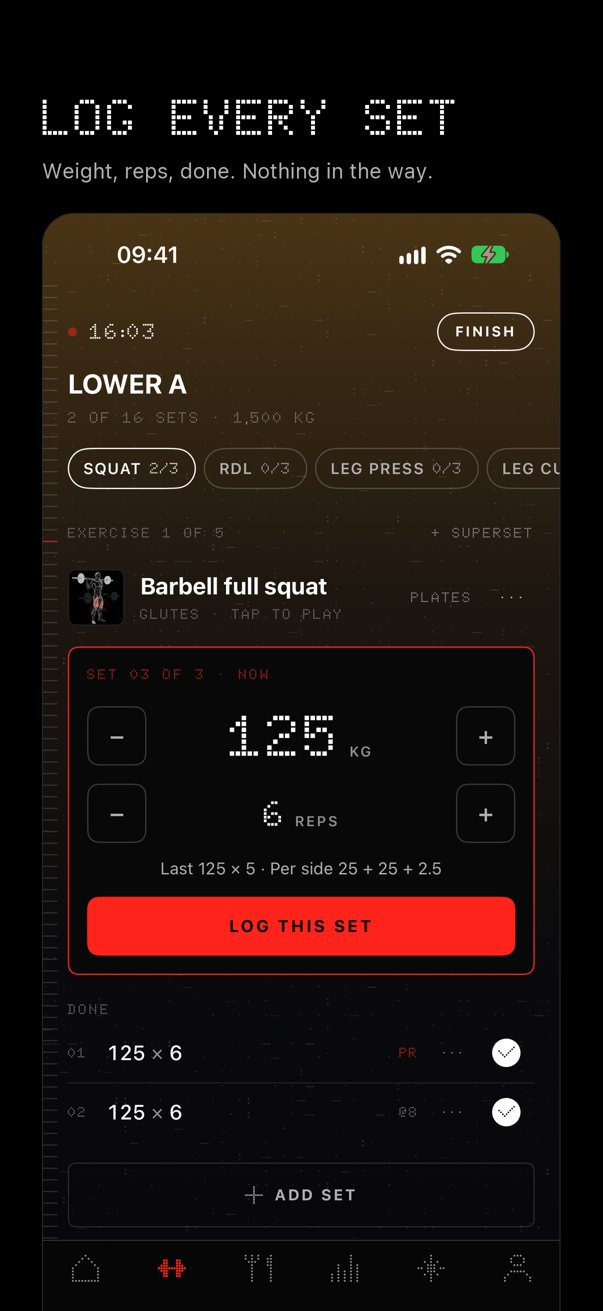
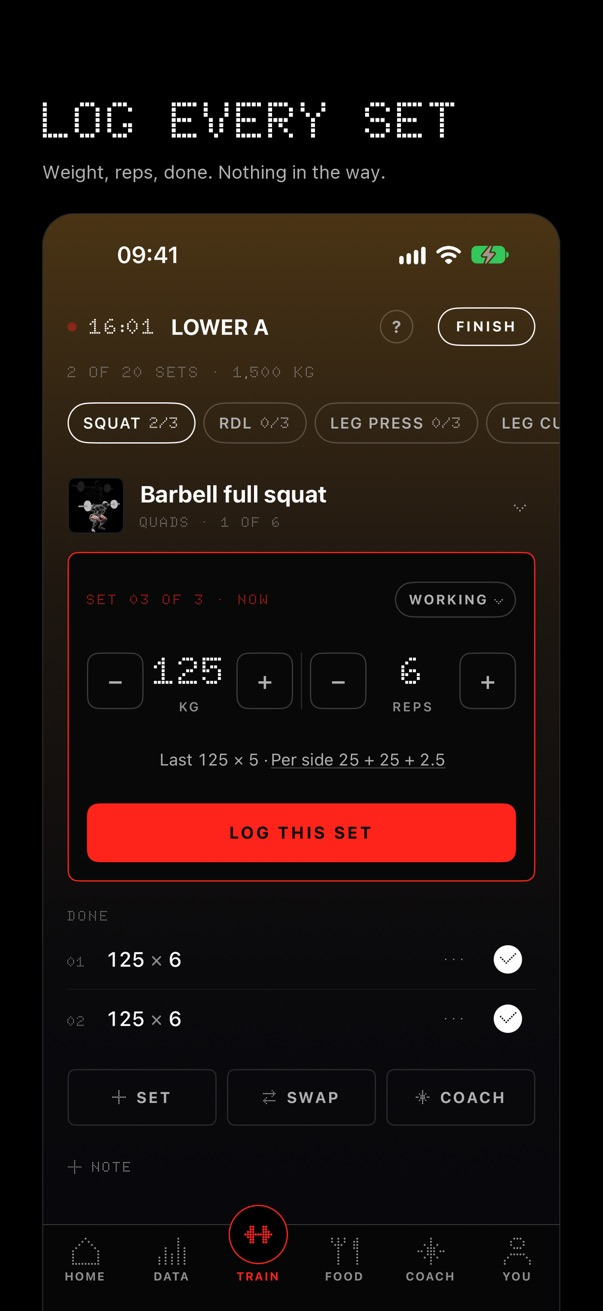
Site for GRAVR 2.0: new home page, a changelog, current support and privacy pages

diff --git a/docs/privacy/index.html b/docs/privacy/index.html
@@ -1,22 +1,35 @@
 <!doctype html><html lang="en"><head><title>GRAVR privacy policy</title><meta charset="utf-8"><meta name="viewport" content="width=device-width,initial-scale=1">
 <style>
-:root{color-scheme:dark}
+:root{color-scheme:dark;--red:#ff241b;--line:#2a2a2a;--dim:#8e8e8e}
 body{margin:0;background:#000;color:#f2f2f2;font:17px/1.6 -apple-system,BlinkMacSystemFont,"Helvetica Neue",Arial,sans-serif}
 main{max-width:680px;margin:0 auto;padding:48px 20px 80px}
+main.wide{max-width:920px}
 h1{font-size:34px;line-height:1.15;margin:0 0 6px}
-h2{font:600 12px/1.4 ui-monospace,Menlo,monospace;letter-spacing:.18em;text-transform:uppercase;color:#8e8e8e;margin:40px 0 8px}
-p,li{color:#e6e6e6} .dim{color:#8e8e8e;font-size:14px}
+h2{font:600 12px/1.4 ui-monospace,Menlo,monospace;letter-spacing:.18em;text-transform:uppercase;color:var(--dim);margin:40px 0 8px}
+h3{font-size:19px;line-height:1.3;margin:0 0 4px}
+p,li{color:#e6e6e6} .dim{color:var(--dim);font-size:14px}
 a{color:#fff} ul{padding-left:20px}
 .top{display:flex;align-items:center;gap:14px;margin-bottom:28px}
 .top img{width:56px;height:56px;border-radius:13px}
-.top span{font:700 13px/1 ui-monospace,Menlo,monospace;letter-spacing:.24em;color:#8e8e8e}
-.shots{display:grid;grid-template-columns:repeat(3,1fr);gap:10px;margin-top:24px}
-.shots img{width:100%;border-radius:12px;border:1px solid #2a2a2a}
-nav{margin-top:48px;padding-top:20px;border-top:1px solid #2a2a2a;font-size:14px}
-nav a{margin-right:18px;color:#8e8e8e}
+.top span{font:700 13px/1 ui-monospace,Menlo,monospace;letter-spacing:.24em;color:var(--dim)}
+.lede{max-width:620px}
+.get{display:inline-block;margin:18px 0 4px;padding:13px 22px;background:var(--red);color:#000;font:700 13px/1 ui-monospace,Menlo,monospace;letter-spacing:.16em;text-transform:uppercase;text-decoration:none;border-radius:10px}
+.shots{display:grid;grid-template-columns:repeat(4,1fr);gap:10px;margin-top:28px}
+.shots img{width:100%;height:auto;display:block;border-radius:12px;border:1px solid var(--line)}
+.grid{display:grid;grid-template-columns:repeat(2,1fr);gap:0 36px}
+.grid div{padding:18px 0;border-top:1px solid var(--line)}
+.grid p{margin:0;font-size:16px}
+.box{border:1px solid var(--line);border-radius:12px;padding:18px 20px;margin-top:12px}
+.box p{margin:0 0 10px}.box p:last-child{margin:0}
+.ver{display:flex;align-items:baseline;gap:14px;margin:44px 0 10px;padding-top:22px;border-top:1px solid var(--line)}
+.ver b{font:700 26px/1 ui-monospace,Menlo,monospace;letter-spacing:.04em}
+.ver span{font:600 12px/1 ui-monospace,Menlo,monospace;letter-spacing:.18em;text-transform:uppercase;color:var(--dim)}
+nav{margin-top:48px;padding-top:20px;border-top:1px solid var(--line);font-size:14px}
+nav a{margin-right:18px;color:var(--dim)}
+@media (max-width:640px){.shots{grid-template-columns:repeat(2,1fr)}.grid{grid-template-columns:1fr}}
 </style></head><body><main><div class="top"><img src="../img/icon.png" alt="GRAVR icon"><span>GRAVR</span></div><h1>GRAVR privacy policy</h1>
-<p class="dim">Last updated: 10 November 2026</p>
-<p>GRAVR is a workout and food log for iPhone. This page says what the app keeps, where it keeps it, and when anything leaves your iPhone.</p>
+<p class="dim">Last updated: 12 November 2026</p>
+<p>GRAVR is a workout and food log for iPhone and Apple Watch. This page says what the app keeps, where it keeps it, and when anything leaves your iPhone.</p>
 <p><strong>The short version.</strong> GRAVR has no accounts, no ads, no analytics and no tracking. The developer runs no server and never receives your data. What you log stays on your iPhone and, if you use iCloud, in your own private iCloud.</p>
 <h2>What GRAVR stores</h2>
 <p>On your iPhone:</p>
@@ -25,7 +38,7 @@ nav a{margin-right:18px;color:#8e8e8e}
 <li>your profile — height, bodyweight, year of birth, sex, goal — if you choose to enter it</li>
 <li>your meals, and any photos of meals you take or pick</li>
 <li>your conversations with the coach</li>
-<li>your settings, and the address and model of a coach endpoint if you add one; its key is kept in the iPhone&#x27;s Keychain</li>
+<li>your settings, and the address and model of a coach endpoint if you add one; its key is kept in the iPhone's Keychain</li>
 </ul>
 <h2>iCloud</h2>
 <p>If you are signed in to iCloud, GRAVR backs up your workouts, plan, saved workouts, profile and meals to your <strong>private</strong> iCloud database, so they come back on a new iPhone or after a reinstall. It is your iCloud storage, not ours: the developer cannot read it. Meal photos are not backed up; they stay on the iPhone that took them. Turn iCloud off for GRAVR in the Settings app and nothing is uploaded.</p>
@@ -33,21 +46,22 @@ nav a{margin-right:18px;color:#8e8e8e}
 <p>Only if you allow it:</p>
 <ul>
 <li>GRAVR <strong>reads</strong> your bodyweight from Health, so you do not have to type it.</li>
-<li>GRAVR <strong>writes</strong> your finished workouts, and an estimate of the energy they used, to Health.</li>
+<li>GRAVR <strong>writes</strong> your finished workouts to Health, with an estimate of the energy they used once your bodyweight is set.</li>
+<li>On Apple Watch, GRAVR <strong>records</strong> the workout while you train, with the heart rate and energy the Watch measures, and saves it to Health in place of the estimate. Heart rate is shown on the Watch and not kept anywhere else.</li>
 </ul>
 <p>A bodyweight read from Health is saved in your GRAVR profile like one you typed, so it is part of the iCloud backup above and of what the coach is sent below. GRAVR does not use Health data for advertising or marketing, and does not sell it or give it to data brokers. You can withdraw access at any time in the Health app.</p>
 <h2>The coach</h2>
-<p>GRAVR&#x27;s coach can run in three ways:</p>
+<p>GRAVR's coach can run in three ways:</p>
 <ul>
 <li><strong>On your iPhone.</strong> With no endpoint set up, the coach uses the model built into iOS, where your iPhone supports it. Nothing leaves the device.</li>
-<li><strong>With an endpoint you add.</strong> You can connect an AI service of your own choosing by entering its address and your key for it. GRAVR asks before the first time anything is sent to it, and says what will be sent. With your agreement, a question to the coach is sent to that service together with what it needs to answer: your recent workout history, your profile numbers, and today&#x27;s food. When you ask it to read a meal, the text you typed or the photos you chose are sent. That service handles the data under its own terms and privacy policy; the developer of GRAVR does not receive it.</li>
+<li><strong>With an endpoint you add.</strong> You can connect an AI service of your own choosing by entering its address and your key for it. GRAVR asks before the first time anything is sent to it, and says what will be sent. With your agreement, a question to the coach is sent to that service together with what it needs to answer: your recent workout history, your profile numbers, and today's food. When you ask it to read a meal, the text you typed or the photos you chose are sent. That service handles the data under its own terms and privacy policy; the developer of GRAVR does not receive it.</li>
 <li><strong>Not at all.</strong> Everything else in the app works without the coach.</li>
 </ul>
-<p>You can remove the endpoint in Profile at any time.</p>
+<p>You can remove the endpoint in You › Coach at any time.</p>
 <h2>Camera and photos</h2>
-<p>GRAVR uses the camera or your photo library only when you choose to add a photo of a meal. Photos are stored on your iPhone, and sent to your coach endpoint only when you ask it to read them.</p>
+<p>GRAVR uses the camera or your photo library only when you choose to add a photo of a meal. Photos are stored on your iPhone. With the coach on your iPhone, a photo is read there and nothing is sent; with an endpoint you added, it is sent to that endpoint only when you ask it to read it.</p>
 <h2>Notifications and widgets</h2>
-<p>The rest timer sends a notification on your iPhone when a rest ends. Widgets and the Lock Screen timer show data from the app on your own device. None of this goes anywhere else.</p>
+<p>The rest timer sends a notification on your iPhone when a rest ends. Widgets, the Lock Screen timer and the Apple Watch app show data from the app on your own devices; the Watch talks only to your iPhone. None of this goes anywhere else.</p>
 <h2>What GRAVR does not do</h2>
 <ul>
 <li>No advertising, and no advertising identifiers.</li>
@@ -57,13 +71,13 @@ nav a{margin-right:18px;color:#8e8e8e}
 </ul>
 <h2>Your choices</h2>
 <ul>
-<li><strong>Export.</strong> Profile → iCloud &amp; backup exports your log as a file you keep.</li>
-<li><strong>Erase.</strong> Profile → Erase everything removes your workouts, plan, saved workouts, profile, meals and photos, coach conversations and endpoint from the iPhone, and from your iCloud backup.</li>
-<li><strong>Delete the app.</strong> Removing GRAVR removes what it stored on the iPhone.</li>
+<li><strong>Export.</strong> You › Data &amp; privacy exports your log as a file you keep.</li>
+<li><strong>Erase.</strong> You › Data &amp; privacy › Erase everything removes your workouts, plan, saved workouts, profile, meals and photos, coach conversations and endpoint from the iPhone, and from your iCloud backup.</li>
+<li><strong>Delete the app.</strong> Removing GRAVR removes what it stored on the iPhone and the Watch.</li>
 </ul>
 <h2>Children</h2>
 <p>GRAVR is not directed at children under 13 and does not knowingly collect information from them. It collects no information from anyone.</p>
 <h2>Changes</h2>
 <p>If this policy changes, the new version will be posted here with a new date.</p>
 <h2>Contact</h2>
-<p>Questions about this policy: write to the support address on GRAVR&#x27;s App Store page.</p><nav><a href="../">GRAVR</a><a href="../privacy/">Privacy</a><a href="../support/">Support</a></nav></main></body></html>
+<p>Questions about this policy: see the support page.</p><nav><a href="../">GRAVR</a><a href="../changelog/">Changelog</a><a href="../privacy/">Privacy</a><a href="../support/">Support</a></nav></main></body></html>

diff --git a/docs/index.html b/docs/index.html
@@ -1,19 +1,45 @@
-<!doctype html><html lang="en"><head><title>GRAVR — Dot Matrix Lifting Log</title><meta charset="utf-8"><meta name="viewport" content="width=device-width,initial-scale=1">
+<!doctype html><html lang="en"><head><title>GRAVR — Dot Matrix Lifting Log</title><meta charset="utf-8"><meta name="viewport" content="width=device-width,initial-scale=1"><meta name="description" content="GRAVR is a workout and food log for iPhone and Apple Watch. Log every set, beat last week. No account, no ads, no tracking.">
 <style>
-:root{color-scheme:dark}
+:root{color-scheme:dark;--red:#ff241b;--line:#2a2a2a;--dim:#8e8e8e}
 body{margin:0;background:#000;color:#f2f2f2;font:17px/1.6 -apple-system,BlinkMacSystemFont,"Helvetica Neue",Arial,sans-serif}
 main{max-width:680px;margin:0 auto;padding:48px 20px 80px}
+main.wide{max-width:920px}
 h1{font-size:34px;line-height:1.15;margin:0 0 6px}
-h2{font:600 12px/1.4 ui-monospace,Menlo,monospace;letter-spacing:.18em;text-transform:uppercase;color:#8e8e8e;margin:40px 0 8px}
-p,li{color:#e6e6e6} .dim{color:#8e8e8e;font-size:14px}
+h2{font:600 12px/1.4 ui-monospace,Menlo,monospace;letter-spacing:.18em;text-transform:uppercase;color:var(--dim);margin:40px 0 8px}
+h3{font-size:19px;line-height:1.3;margin:0 0 4px}
+p,li{color:#e6e6e6} .dim{color:var(--dim);font-size:14px}
 a{color:#fff} ul{padding-left:20px}
 .top{display:flex;align-items:center;gap:14px;margin-bottom:28px}
 .top img{width:56px;height:56px;border-radius:13px}
-.top span{font:700 13px/1 ui-monospace,Menlo,monospace;letter-spacing:.24em;color:#8e8e8e}
-.shots{display:grid;grid-template-columns:repeat(3,1fr);gap:10px;margin-top:24px}
-.shots img{width:100%;border-radius:12px;border:1px solid #2a2a2a}
-nav{margin-top:48px;padding-top:20px;border-top:1px solid #2a2a2a;font-size:14px}
-nav a{margin-right:18px;color:#8e8e8e}
-</style></head><body><main><div class="top"><img src="img/icon.png" alt="GRAVR icon"><span>GRAVR</span></div><h1>Log every set.<br>Beat last week.</h1>
-<p>GRAVR is a workout and food log for iPhone. Tap to log a set, see your week drawn in dots, and ask a coach that has read your log. No account, no ads, no tracking.</p>
-<div class="shots"><img src="img/01-logger.jpg" alt="GRAVR screenshot"><img src="img/02-home.jpg" alt="GRAVR screenshot"><img src="img/03-data.jpg" alt="GRAVR screenshot"><img src="img/04-coach.jpg" alt="GRAVR screenshot"><img src="img/05-food.jpg" alt="GRAVR screenshot"><img src="img/06-exercise.jpg" alt="GRAVR screenshot"></div><nav><a href="">GRAVR</a><a href="privacy/">Privacy</a><a href="support/">Support</a></nav></main></body></html>
+.top span{font:700 13px/1 ui-monospace,Menlo,monospace;letter-spacing:.24em;color:var(--dim)}
+.lede{max-width:620px}
+.get{display:inline-block;margin:18px 0 4px;padding:13px 22px;background:var(--red);color:#000;font:700 13px/1 ui-monospace,Menlo,monospace;letter-spacing:.16em;text-transform:uppercase;text-decoration:none;border-radius:10px}
+.shots{display:grid;grid-template-columns:repeat(4,1fr);gap:10px;margin-top:28px}
+.shots img{width:100%;height:auto;display:block;border-radius:12px;border:1px solid var(--line)}
+.grid{display:grid;grid-template-columns:repeat(2,1fr);gap:0 36px}
+.grid div{padding:18px 0;border-top:1px solid var(--line)}
+.grid p{margin:0;font-size:16px}
+.box{border:1px solid var(--line);border-radius:12px;padding:18px 20px;margin-top:12px}
+.box p{margin:0 0 10px}.box p:last-child{margin:0}
+.ver{display:flex;align-items:baseline;gap:14px;margin:44px 0 10px;padding-top:22px;border-top:1px solid var(--line)}
+.ver b{font:700 26px/1 ui-monospace,Menlo,monospace;letter-spacing:.04em}
+.ver span{font:600 12px/1 ui-monospace,Menlo,monospace;letter-spacing:.18em;text-transform:uppercase;color:var(--dim)}
+nav{margin-top:48px;padding-top:20px;border-top:1px solid var(--line);font-size:14px}
+nav a{margin-right:18px;color:var(--dim)}
+@media (max-width:640px){.shots{grid-template-columns:repeat(2,1fr)}.grid{grid-template-columns:1fr}}
+</style></head><body><main class="wide"><div class="top"><img src="img/icon.png" alt="GRAVR icon"><span>GRAVR</span></div><h1>Log every set.<br>Beat last week.</h1>
+<p class="lede">GRAVR is a workout and food log for iPhone and Apple Watch. Tap to log a set, see your week drawn in dots, and ask a coach that has read your log. No account, no ads, no tracking.</p>
+<a class="get" href="https://apps.apple.com/app/id6832640010">Get GRAVR on the App Store</a>
+<p class="dim">One purchase. No subscription and no in-app purchases.</p>
+<div class="shots"><img src="img/01-logger.jpg" alt="Logging a set" width="603" height="1311" loading="lazy"><img src="img/02-drop.jpg" alt="The coach writing a drop set" width="603" height="1311" loading="lazy"><img src="img/03-home.jpg" alt="Home" width="603" height="1311" loading="lazy"><img src="img/04-data.jpg" alt="Data" width="603" height="1311" loading="lazy"><img src="img/05-plans.jpg" alt="Ready-made plans" width="603" height="1311" loading="lazy"><img src="img/06-coach.jpg" alt="Coach" width="603" height="1311" loading="lazy"><img src="img/07-food.jpg" alt="Food" width="603" height="1311" loading="lazy"><img src="img/08-exercise.jpg" alt="An exercise page" width="603" height="1311" loading="lazy"></div>
+<h2>New in 2.0</h2>
+<p>A calmer logger, a coach that writes your sets, ready-made plans, 17 new movements and a simpler Food page. <a href="changelog/">Read the changelog</a>.</p>
+<h2>What it does</h2>
+<div class="grid"><div><h3>Log a set in a tap</h3><p>Last time&#x27;s weight and reps are already there. Tap to log; the rest timer starts on its own, or waits for you. Swap, move or remove an exercise mid-session, with Undo.</p></div><div><h3>Sets of every kind</h3><p>Working sets, warm-ups, supersets and drop sets with every drop inside one set. Holds run on a stopwatch; carries, rows and runs take distance and time.</p></div><div><h3>A coach that has read your log</h3><p>Ask what you lifted last week or why a lift has stalled. Ask for a drop set or a new week and it shows exactly what will change before anything does.</p></div><div><h3>Ready-made plans</h3><p>Start from one of four plans, with or without kit, draft a week from your goal, or build your own by hand.</p></div><div><h3>1,365 exercises, animated</h3><p>Search by the name on the machine. Every movement has its animation, a plain name and a short definition, and works with no signal.</p></div><div><h3>Food, counted</h3><p>What is left today, your protein, carbs and fat, and your usual meals to log again in a tap. Photograph a meal, describe it, or enter the numbers.</p></div><div><h3>On your wrist</h3><p>The Apple Watch app runs the session on your iPhone: log a set, turn the Crown to change the weight, feel the rest end. Workouts land in Apple Health.</p></div><div><h3>See it add up</h3><p>Records caught as you set them. Your week&#x27;s load, estimated one-rep maxes, your streak and a wall of every session, drawn in dots.</p></div></div>
+<h2>Bring your own AI</h2>
+<div class="box"><p>GRAVR has no AI subscription and no server of its own. Know this before you buy:</p>
+<p><strong>Free, on your iPhone.</strong> On an iPhone with Apple Intelligence, the coach answers from your log and meals are read on the device. Nothing is sent anywhere.</p>
+<p><strong>With a service you connect.</strong> To have the coach change your plan and write your sets, add an AI service of your own in You &rsaquo; Coach: any OpenAI-compatible service, with your own key. That service bills you itself; GRAVR adds nothing and asks before the first send.</p>
+<p><strong>With no AI at all.</strong> Logging, plans, the library, Food by numbers, Data, the Watch app and widgets all work without it.</p></div>
+<h2>Yours</h2>
+<p>Your log lives on your iPhone and backs up to your own private iCloud. Export it or erase it whenever you like. The developer runs no server and never receives your data. <a href="privacy/">Privacy policy</a>.</p><nav><a href="./">GRAVR</a><a href="changelog/">Changelog</a><a href="privacy/">Privacy</a><a href="support/">Support</a></nav></main></body></html>

diff --git a/docs/changelog/index.html b/docs/changelog/index.html
@@ -1,0 +1,40 @@
+<!doctype html><html lang="en"><head><title>GRAVR changelog</title><meta charset="utf-8"><meta name="viewport" content="width=device-width,initial-scale=1"><meta name="description" content="What changed in each version of GRAVR.">
+<style>
+:root{color-scheme:dark;--red:#ff241b;--line:#2a2a2a;--dim:#8e8e8e}
+body{margin:0;background:#000;color:#f2f2f2;font:17px/1.6 -apple-system,BlinkMacSystemFont,"Helvetica Neue",Arial,sans-serif}
+main{max-width:680px;margin:0 auto;padding:48px 20px 80px}
+main.wide{max-width:920px}
+h1{font-size:34px;line-height:1.15;margin:0 0 6px}
+h2{font:600 12px/1.4 ui-monospace,Menlo,monospace;letter-spacing:.18em;text-transform:uppercase;color:var(--dim);margin:40px 0 8px}
+h3{font-size:19px;line-height:1.3;margin:0 0 4px}
+p,li{color:#e6e6e6} .dim{color:var(--dim);font-size:14px}
+a{color:#fff} ul{padding-left:20px}
+.top{display:flex;align-items:center;gap:14px;margin-bottom:28px}
+.top img{width:56px;height:56px;border-radius:13px}
+.top span{font:700 13px/1 ui-monospace,Menlo,monospace;letter-spacing:.24em;color:var(--dim)}
+.lede{max-width:620px}
+.get{display:inline-block;margin:18px 0 4px;padding:13px 22px;background:var(--red);color:#000;font:700 13px/1 ui-monospace,Menlo,monospace;letter-spacing:.16em;text-transform:uppercase;text-decoration:none;border-radius:10px}
+.shots{display:grid;grid-template-columns:repeat(4,1fr);gap:10px;margin-top:28px}
+.shots img{width:100%;height:auto;display:block;border-radius:12px;border:1px solid var(--line)}
+.grid{display:grid;grid-template-columns:repeat(2,1fr);gap:0 36px}
+.grid div{padding:18px 0;border-top:1px solid var(--line)}
+.grid p{margin:0;font-size:16px}
+.box{border:1px solid var(--line);border-radius:12px;padding:18px 20px;margin-top:12px}
+.box p{margin:0 0 10px}.box p:last-child{margin:0}
+.ver{display:flex;align-items:baseline;gap:14px;margin:44px 0 10px;padding-top:22px;border-top:1px solid var(--line)}
+.ver b{font:700 26px/1 ui-monospace,Menlo,monospace;letter-spacing:.04em}
+.ver span{font:600 12px/1 ui-monospace,Menlo,monospace;letter-spacing:.18em;text-transform:uppercase;color:var(--dim)}
+nav{margin-top:48px;padding-top:20px;border-top:1px solid var(--line);font-size:14px}
+nav a{margin-right:18px;color:var(--dim)}
+@media (max-width:640px){.shots{grid-template-columns:repeat(2,1fr)}.grid{grid-template-columns:1fr}}
+</style></head><body><main><div class="top"><img src="../img/icon.png" alt="GRAVR icon"><span>GRAVR</span></div><h1>Changelog</h1><p class="dim">What changed in each version of GRAVR.</p>
+<div class="ver"><b>2.0</b><span>November 2026</span></div>
+<p>The biggest update yet: the logger, the coach, Food and settings were all rebuilt.</p>
+<h2>Logger</h2><ul><li>The set you are on is front and centre, with the done sets quiet beneath it.</li><li>A drop set is one set with its drops inside it.</li><li>Rest can start on its own or wait until you tap Start.</li><li>Target reps as a range, and a target effort for a set.</li><li>A coach drawer inside the logger, on the lift that is up.</li></ul>
+<h2>Coach</h2><ul><li>The coach writes sets of every kind: working sets, warm-ups, drop sets, supersets, timed holds and effort targets.</li><li>It can add, change and remove upcoming sets, set rest, replace or reorder exercises, and rename a session.</li><li>Every change shows as a card that says exactly what will change. Apply it yourself, or let the coach make changes and undo any of them.</li><li>A Coach page in You that tests the AI service you connect, step by step, and shows a week of use.</li></ul>
+<h2>Library and plans</h2><ul><li>Four ready-made plans under Library &rsaquo; Plans: beginner full body, calisthenics push, pull, legs, a no-equipment travel week, and a mobility routine.</li><li>17 new movements, levers and planches among them, for 1,365 in all.</li><li>Plainer exercise names, and a short definition on every exercise page.</li></ul>
+<h2>Food</h2><ul><li>A simpler page: what is left today, protein, carbs and fat against their targets, and today's meals.</li><li>Log again: your usual meals, one tap each.</li><li>Move between days from the top of the page.</li></ul>
+<h2>Around the app</h2><ul><li>Six tabs, each with its name: Home, Data, Train, Food, Coach and You. Train sits in the centre.</li><li>You, in five groups: Athlete, Coach, Workout &amp; logger, Data &amp; privacy, About.</li><li>An intro that uses the real logger, and a short guide on every screen. Replay them from You.</li><li>Background patterns stay away from text.</li></ul>
+<h2>Security and privacy</h2><ul><li>The key for an AI service is tied to the address it was saved with; a different address needs its own key.</li><li>Connections to an AI service stay on the host you chose, and replies are size-limited.</li><li>The app asks before the first send to any service, and says what will be sent.</li></ul>
+<div class="ver"><b>1.0</b><span>November 2026</span></div>
+<p>The first version.</p><ul><li>Log a set in a tap, add sets with one button, and swap, move or remove an exercise mid-session, with Undo.</li><li>Supersets, warm-ups and drop sets; timed sets for holds; distance and time for carries, rows and runs.</li><li>1,348 animated exercises, found by the name on the machine.</li><li>A coach that answers from your log, on the iPhone or with an AI service you connect.</li><li>Food: type a meal, photograph it, or enter the numbers.</li><li>Apple Watch app with complications, and workouts saved to Apple Health.</li><li>Kilograms or pounds, with the right bar and plates for each.</li><li>Home Screen and Lock Screen widgets, the rest timer in the Dynamic Island, and Shortcuts.</li><li>iCloud backup, export, and Erase everything.</li><li>Made for iPhone Duo.</li></ul><nav><a href="../">GRAVR</a><a href="../changelog/">Changelog</a><a href="../privacy/">Privacy</a><a href="../support/">Support</a></nav></main></body></html>

diff --git a/docs/support/index.html b/docs/support/index.html
@@ -1,25 +1,39 @@
 <!doctype html><html lang="en"><head><title>GRAVR support</title><meta charset="utf-8"><meta name="viewport" content="width=device-width,initial-scale=1">
 <style>
-:root{color-scheme:dark}
+:root{color-scheme:dark;--red:#ff241b;--line:#2a2a2a;--dim:#8e8e8e}
 body{margin:0;background:#000;color:#f2f2f2;font:17px/1.6 -apple-system,BlinkMacSystemFont,"Helvetica Neue",Arial,sans-serif}
 main{max-width:680px;margin:0 auto;padding:48px 20px 80px}
+main.wide{max-width:920px}
 h1{font-size:34px;line-height:1.15;margin:0 0 6px}
-h2{font:600 12px/1.4 ui-monospace,Menlo,monospace;letter-spacing:.18em;text-transform:uppercase;color:#8e8e8e;margin:40px 0 8px}
-p,li{color:#e6e6e6} .dim{color:#8e8e8e;font-size:14px}
+h2{font:600 12px/1.4 ui-monospace,Menlo,monospace;letter-spacing:.18em;text-transform:uppercase;color:var(--dim);margin:40px 0 8px}
+h3{font-size:19px;line-height:1.3;margin:0 0 4px}
+p,li{color:#e6e6e6} .dim{color:var(--dim);font-size:14px}
 a{color:#fff} ul{padding-left:20px}
 .top{display:flex;align-items:center;gap:14px;margin-bottom:28px}
 .top img{width:56px;height:56px;border-radius:13px}
-.top span{font:700 13px/1 ui-monospace,Menlo,monospace;letter-spacing:.24em;color:#8e8e8e}
-.shots{display:grid;grid-template-columns:repeat(3,1fr);gap:10px;margin-top:24px}
-.shots img{width:100%;border-radius:12px;border:1px solid #2a2a2a}
-nav{margin-top:48px;padding-top:20px;border-top:1px solid #2a2a2a;font-size:14px}
-nav a{margin-right:18px;color:#8e8e8e}
+.top span{font:700 13px/1 ui-monospace,Menlo,monospace;letter-spacing:.24em;color:var(--dim)}
+.lede{max-width:620px}
+.get{display:inline-block;margin:18px 0 4px;padding:13px 22px;background:var(--red);color:#000;font:700 13px/1 ui-monospace,Menlo,monospace;letter-spacing:.16em;text-transform:uppercase;text-decoration:none;border-radius:10px}
+.shots{display:grid;grid-template-columns:repeat(4,1fr);gap:10px;margin-top:28px}
+.shots img{width:100%;height:auto;display:block;border-radius:12px;border:1px solid var(--line)}
+.grid{display:grid;grid-template-columns:repeat(2,1fr);gap:0 36px}
+.grid div{padding:18px 0;border-top:1px solid var(--line)}
+.grid p{margin:0;font-size:16px}
+.box{border:1px solid var(--line);border-radius:12px;padding:18px 20px;margin-top:12px}
+.box p{margin:0 0 10px}.box p:last-child{margin:0}
+.ver{display:flex;align-items:baseline;gap:14px;margin:44px 0 10px;padding-top:22px;border-top:1px solid var(--line)}
+.ver b{font:700 26px/1 ui-monospace,Menlo,monospace;letter-spacing:.04em}
+.ver span{font:600 12px/1 ui-monospace,Menlo,monospace;letter-spacing:.18em;text-transform:uppercase;color:var(--dim)}
+nav{margin-top:48px;padding-top:20px;border-top:1px solid var(--line);font-size:14px}
+nav a{margin-right:18px;color:var(--dim)}
+@media (max-width:640px){.shots{grid-template-columns:repeat(2,1fr)}.grid{grid-template-columns:1fr}}
 </style></head><body><main><div class="top"><img src="../img/icon.png" alt="GRAVR icon"><span>GRAVR</span></div><h1>Support</h1><p class="dim">Help with GRAVR, the lifting and food log for iPhone.</p>
 <h2>Ask a question or report a problem</h2>
 <p>Open an issue at <a href="https://github.com/methunrajmani85-del/gravr-app/issues">github.com/methunrajmani85-del/gravr-app/issues</a>. Say what you did, what you expected and what happened, and which iPhone and iOS version you use. Please do not post personal or health information.</p>
 <h2>Common questions</h2>
-<p><strong>My workouts are not on my new iPhone.</strong> Check that you are signed in to iCloud and that iCloud is on for GRAVR in Settings. Profile, then iCloud &amp; backup, shows when the last backup ran.</p>
-<p><strong>How do I switch to pounds?</strong> Profile, then Training, then Weights in. Nothing in your log is changed.</p>
-<p><strong>How do I fix a set I typed wrong?</strong> Open the session from Data or History and tap Edit session.</p>
-<p><strong>The coach asks for an endpoint.</strong> The coach works on its own on iPhones with Apple Intelligence. To use another AI service, add its https address, model and your own key in Profile, then Coach.</p>
-<p><strong>How do I delete my data?</strong> Profile, then Erase everything. It removes your log from the iPhone and from your iCloud backup.</p><nav><a href="../">GRAVR</a><a href="../privacy/">Privacy</a><a href="../support/">Support</a></nav></main></body></html>
+<p><strong>My workouts are not on my new iPhone.</strong> Check that you are signed in to iCloud and that iCloud is on for GRAVR in Settings. You, then Data &amp; privacy, shows when the last backup ran.</p>
+<p><strong>How do I switch to pounds?</strong> You, then Athlete, then Weights in. Nothing in your log is changed.</p>
+<p><strong>How do I fix a set I typed wrong?</strong> Open the session from Data and tap Edit session.</p>
+<p><strong>Do I need to pay for AI?</strong> No. The coach works on its own on iPhones with Apple Intelligence, and everything else works with no AI at all. To have the coach change your plan and write your sets, add an AI service of your own in You, then Coach: its https address, model and your own key. That service bills you itself.</p>
+<p><strong>How do I see the intro or a guide again?</strong> Tap the ? at the top of a screen for its guide. The intro and the logger tour replay from You.</p>
+<p><strong>How do I delete my data?</strong> You, then Data &amp; privacy, then Erase everything. It removes your log from the iPhone and from your iCloud backup.</p><nav><a href="../">GRAVR</a><a href="../changelog/">Changelog</a><a href="../privacy/">Privacy</a><a href="../support/">Support</a></nav></main></body></html>

diff --git a/README.md b/README.md
@@ -4,18 +4,19 @@
 
 **Log every set. Beat last week.**
 
-GRAVR is a workout and food log for iPhone. Tap to log a set, swap an exercise mid-session, see your week drawn in dots, and ask a coach that has read your log. No account, no ads, no tracking: your log lives on your iPhone and backs up to your own private iCloud.
+GRAVR is a workout and food log for iPhone and Apple Watch. Tap to log a set, swap an exercise mid-session, see your week drawn in dots, and ask a coach that has read your log. No account, no ads, no tracking: your log lives on your iPhone and backs up to your own private iCloud.
 
 <p>
 <img src="docs/img/01-logger.jpg" width="24%" alt="Logging a set">
-<img src="docs/img/02-home.jpg" width="24%" alt="Home">
-<img src="docs/img/03-data.jpg" width="24%" alt="Data">
-<img src="docs/img/04-coach.jpg" width="24%" alt="Coach">
+<img src="docs/img/02-drop.jpg" width="24%" alt="The coach writing a drop set">
+<img src="docs/img/03-home.jpg" width="24%" alt="Home">
+<img src="docs/img/04-data.jpg" width="24%" alt="Data">
 </p>
 
 ## Links
 
 - [Website](https://methunrajmani85-del.github.io/gravr-app/)
+- [Changelog](https://methunrajmani85-del.github.io/gravr-app/changelog/)
 - [Privacy policy](https://methunrajmani85-del.github.io/gravr-app/privacy/)
 - [Support](https://methunrajmani85-del.github.io/gravr-app/support/)
 
